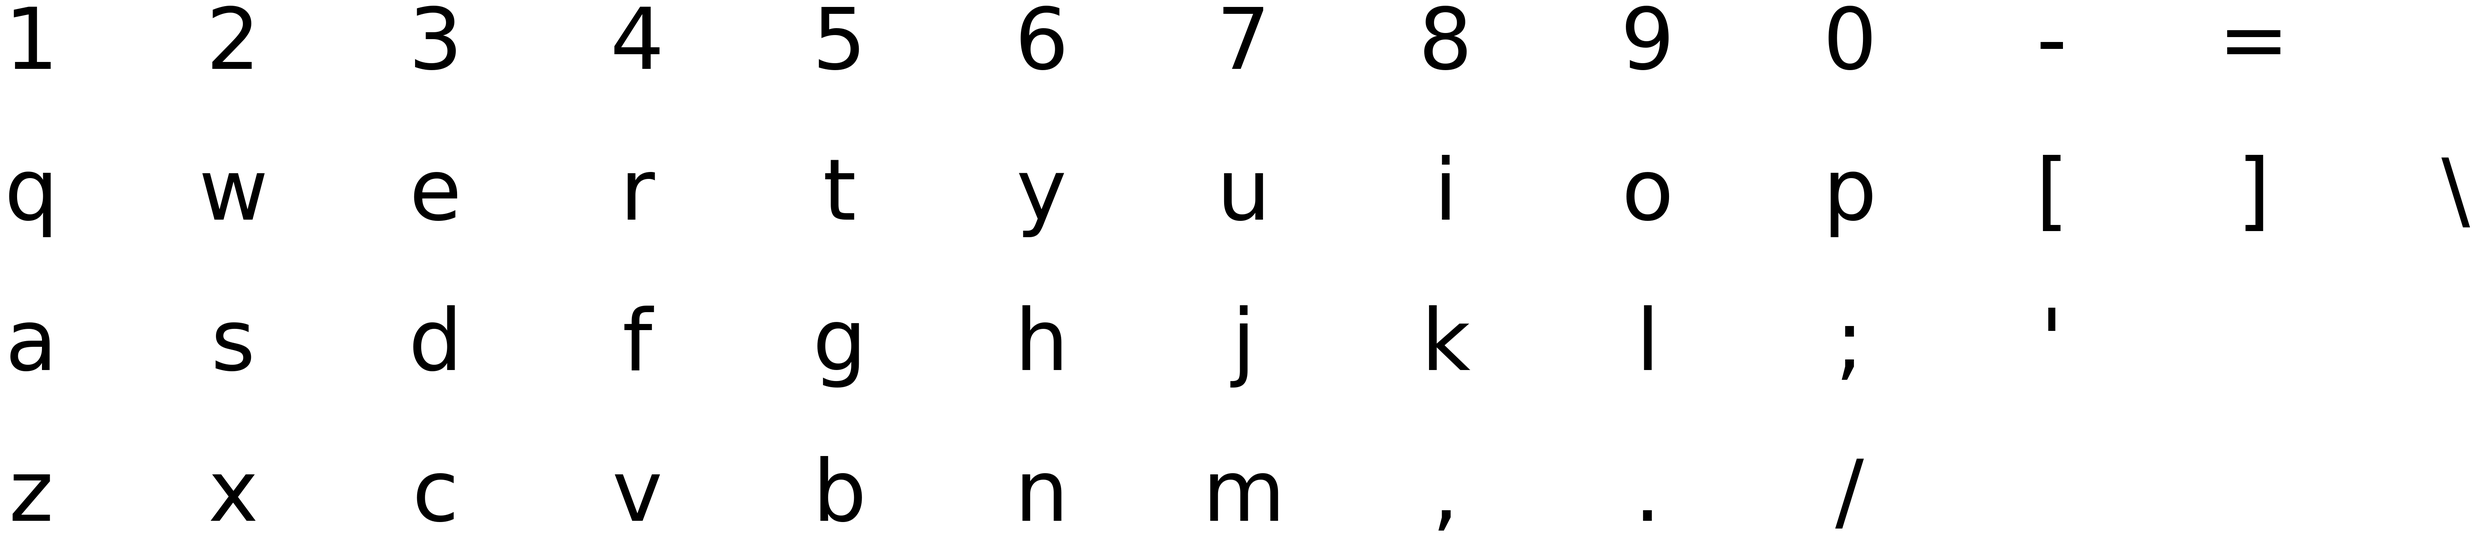
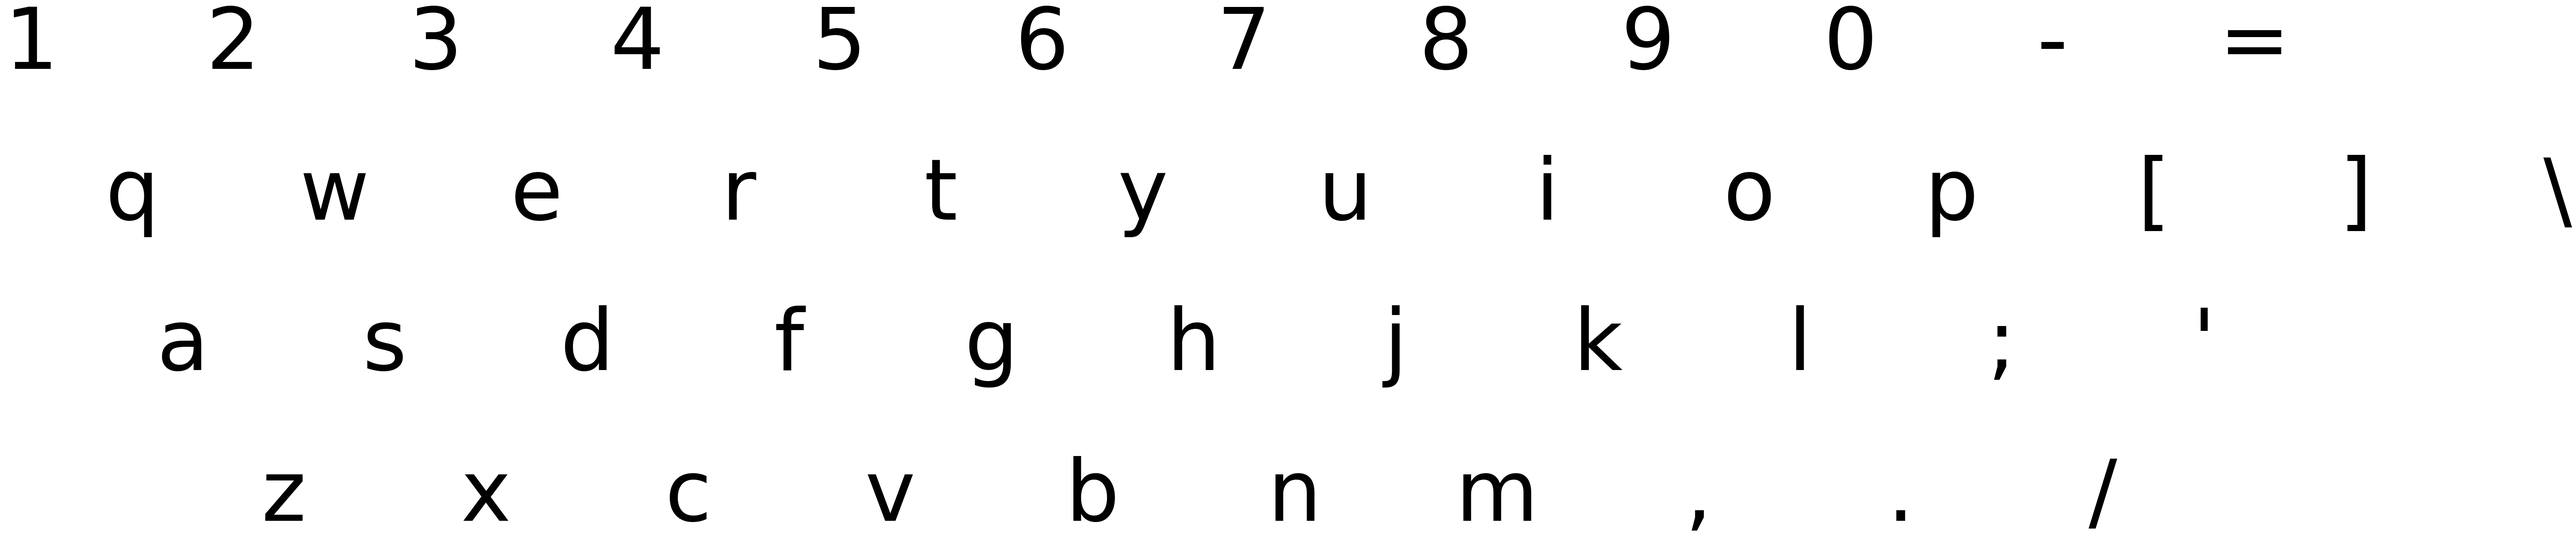
polish

diff --git a/clavier/keyboard.py b/clavier/keyboard.py
@@ -133,9 +133,9 @@ class Keyboard(collections.UserDict):
                 for j, char in enumerate(row[::2])
                 if char
             },
-            staggering=0,
-            horizontal_pitch=1,
-            vertical_pitch=1,
+            staggering=staggering,
+            horizontal_pitch=horizontal_pitch,
+            vertical_pitch=vertical_pitch,
         )
 
     def __repr__(self):

diff --git a/README.md b/README.md
@@ -19,7 +19,11 @@
 
 ## Introduction
 
+Default [edit distances](https://www.wikiwand.com/en/Edit_distance), such as the [Levenshtein distance](https://www.wikiwand.com/en/Levenshtein_distance), don't differentiate between characters. The distance between two characters is either 0 or 1. This package allows you to measure edit distances by taking into account keyboard layouts.
+
 The scope is purposefully limited to alphabetical, numeric, and punctuation keys. That's because this package is meant to assist in analyzing user inputs -- e.g. for [spelling correction](https://norvig.com/spell-correct.html) in a search engine.
+
+The goal of this package is to be flexible. You can define any [logical layout](https://deskthority.net/wiki/Keyboard_layouts#Logical_layout), such as QWERTY or AZERTY. You can also control the [physical layout](https://deskthority.net/wiki/Physical_keyboard_layout) by defining where the keys are on the board.
 
 ## Installation
 
@@ -52,7 +56,7 @@ z x c v b n m , . /
 
 ```
 
-Here is the list of available layouts:
+Here is the list of currently available layouts:
 
 ```py
 >>> for layout in (member for member in dir(clavier) if member.startswith('load_')):
@@ -103,6 +107,8 @@ Measure a modified version of the [Levenshtein distance](https://www.wikiwand.co
 
 ```
 
+You can also override the deletion cost by specifying the `deletion_cost` parameter, and the insertion cost via the `insertion_cost` parameter. Both default to 1.
+
 ### Typing distance
 
 Measure the sum of distances between each pair of consecutive characters. This can be useful for studying [keystroke dynamics](https://www.wikiwand.com/en/Keystroke_dynamics).
@@ -117,7 +123,7 @@ For sentences, you can split them up into words and sum the typing distances.
 
 ```py
 >>> sentence = 'the quick brown fox jumps over the lazy dog'
->>> sum(keyboard.typing_distance(word) for word in sentence.split(" "))
+>>> sum(keyboard.typing_distance(word) for word in sentence.split(' '))
 105.60457487263012
 
 ```
@@ -209,12 +215,14 @@ You can of course specify your own keyboard layout. There are different ways to 
 ...     '1': (0, 0), '2': (0, 1), '3': (0, 2),
 ...     '4': (1, 0), '5': (1, 1), '6': (1, 2),
 ...     '7': (2, 0), '8': (2, 1), '9': (2, 2),
-...                  '☎': (3, 1)
+...     '*': (3, 0), '0': (3, 1), '#': (3, 2),
+...                  '☎': (4, 1)
 ... })
 >>> keypad
 1 2 3
 4 5 6
 7 8 9
+* 0 #
   ☎
 
 ```
